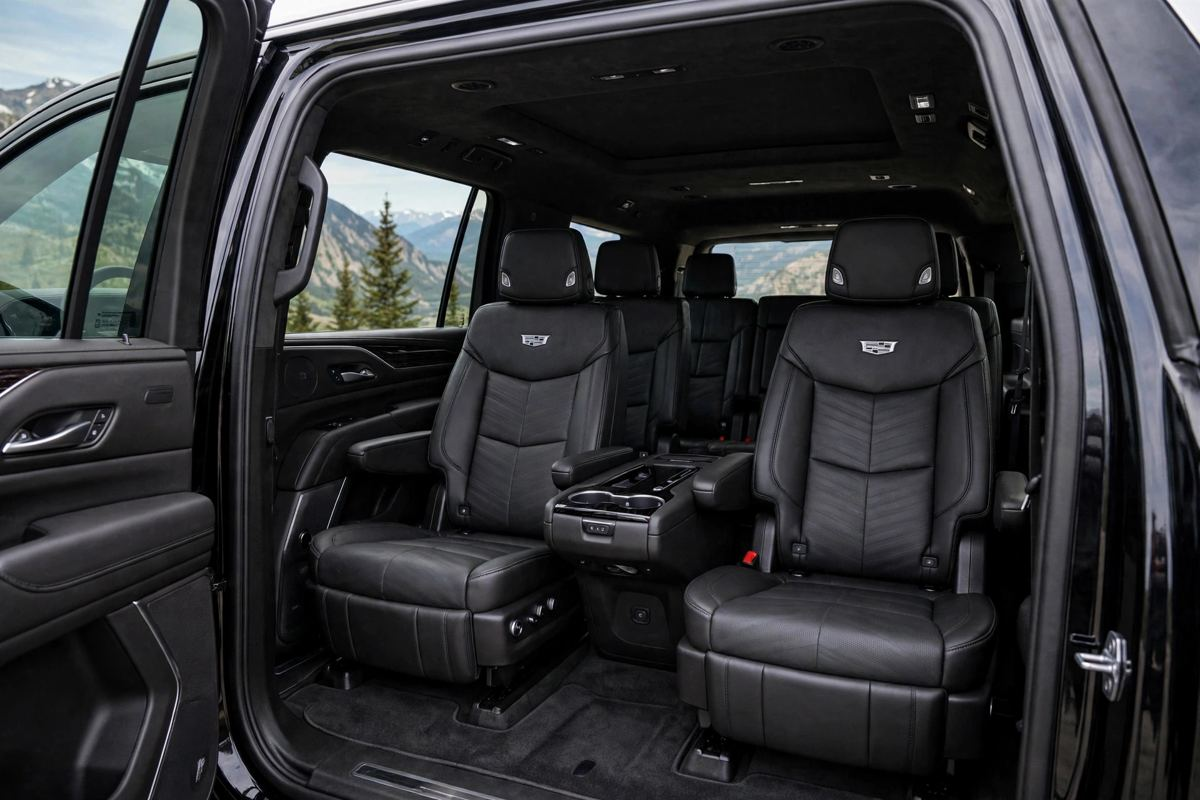
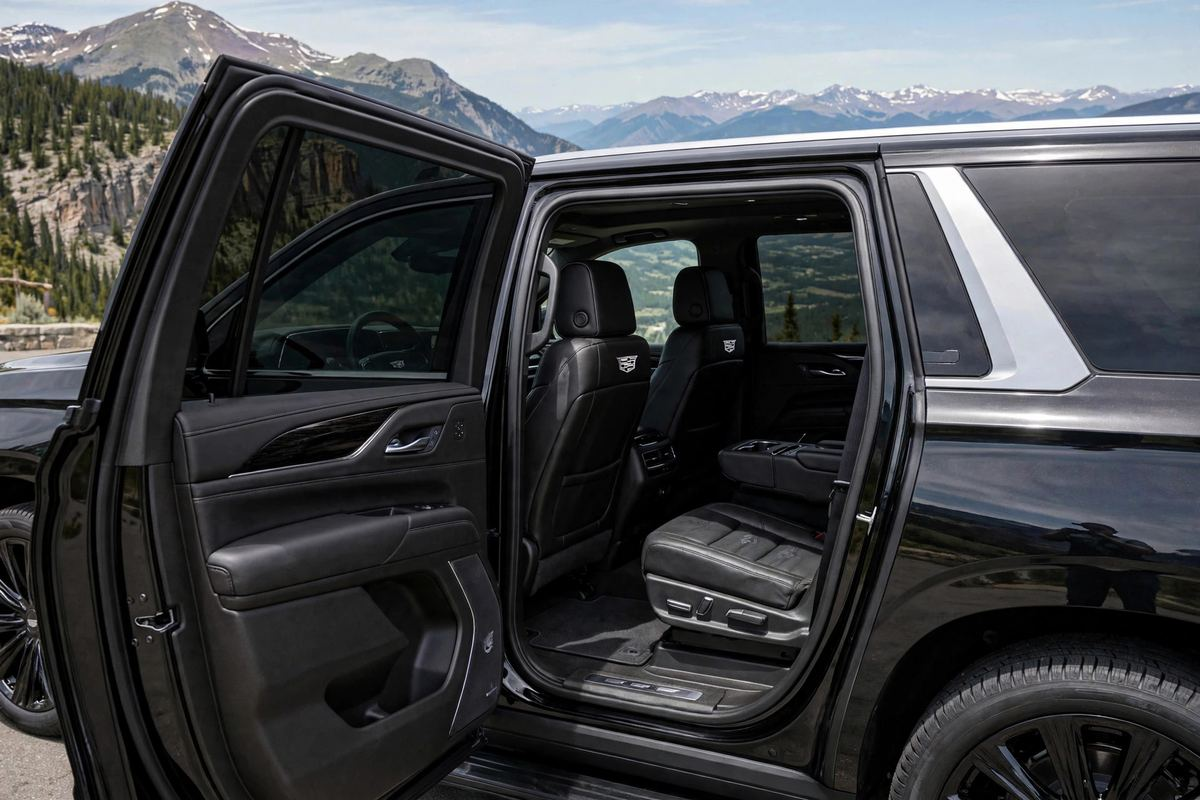
Sync with final preview page (ridewave-web 3fe7ff77): flight-number field, hero eyebrow/headline removed, quote map 300px tall with explicit route framing, slideshow slides 4/5 regenerated (conventional rear door, vertical-LED headlight detail)

diff --git a/index.html b/index.html
@@ -282,9 +282,10 @@ html.veh-pending #qVehImg{display:none}
 html.look-app .qmap-note{color:#B9B9B9;background:linear-gradient(100deg,#161616 40%,#202020 50%,#161616 60%);background-size:200% 100%}
 html.look-app .qmap-note.qmap-failed{background:#161616}
 @media (prefers-reduced-motion: reduce){.qveh-skel,.qmap-note{animation:none}}
-.qmap{position:relative;height:100px;border-radius:12px;overflow:hidden;background:#E7EDE3;margin:0}
+.qmap{position:relative;height:300px;border-radius:12px;overflow:hidden;background:#E7EDE3;margin:0}
 .qfare{display:flex;align-items:baseline;gap:8px;flex-wrap:wrap;background:var(--surface2);border-radius:12px;padding:12px 16px;margin:0 0 8px}
 .qfare[hidden]{display:none}
+#qzFlightField[hidden]{display:none}
 .qfare .q-lbl{font-size:15px;font-weight:600;color:var(--ink)}
 .qfare .q-amt{font-size:24px;font-weight:700;color:var(--amber-strong);line-height:1}
 .qfare .q-det{font-size:14px;font-weight:600;color:var(--muted)}
@@ -421,8 +422,6 @@ body.xyz-edit-on .ticker{margin-top:64px}
 <section style="padding:4px 0 48px">
   <div class="wrap qwrap">
     <div class="qcard">
-      <div class="kicker">Quote request</div>
-      <h1>Book your ride with Boulder Black Line</h1>
       <div class="qid">
         <span class="qid-co">Boulder Black Line</span>
         <span class="qid-owner">Owner: <span data-bbl-owner>Boulder Black Line</span></span>
@@ -437,6 +436,7 @@ body.xyz-edit-on .ticker{margin-top:64px}
             <div class="field"><label class="flabel" for="qzTime">Time</label><input id="qzTime" type="time"><div class="err">Please pick the time of your ride.</div></div>
           </div>
           <div class="field"><label class="flabel" for="qzPickup">Pickup location</label><input id="qzPickup" type="text" placeholder="Start typing an address" autocomplete="off"><div class="err">Please enter your pickup location.</div></div>
+          <div class="field" id="qzFlightField" hidden><label class="flabel" for="qzFlight">Flight number (optional)</label><input id="qzFlight" type="text" autocomplete="off" placeholder="e.g. UA 1234"><div class="err"></div></div>
           <div class="field"><label class="flabel" for="qzDropoff">Drop-off location</label><input id="qzDropoff" type="text" placeholder="Start typing an address" autocomplete="off"><div class="err">Please enter your drop-off location.</div></div>
           <div class="qfare" id="qFare" hidden></div>
           <div class="qduo">
@@ -456,7 +456,7 @@ body.xyz-edit-on .ticker{margin-top:64px}
           <img src="bbl-suv-2.jpg" alt="2026 Cadillac Escalade ESV, rear three-quarter view" loading="lazy">
           <img src="bbl-suv-3.jpg" alt="2026 Cadillac Escalade ESV, front cabin with black leather interior" loading="lazy">
           <img src="bbl-suv-4.jpg" alt="2026 Cadillac Escalade ESV, rear passenger seats with black leather interior" loading="lazy">
-          <img src="bbl-suv-5.jpg" alt="2026 Cadillac Escalade ESV, side profile showing the extended-length body" loading="lazy">
+          <img src="bbl-suv-5.jpg" alt="2026 Cadillac Escalade ESV, front corner detail with vertical LED headlight" loading="lazy">
           </div>
           <button class="qshow-btn qshow-prev" id="qShowPrev" type="button" aria-label="Previous photo">&#8249;</button>
           <button class="qshow-btn qshow-next" id="qShowNext" type="button" aria-label="Next photo">&#8250;</button>
@@ -660,16 +660,44 @@ function qzWidget(){
 function qzTrimMap(){
   try {
     if(!mapsReady || !qzMap || !qzPlaces.pickup || !qzPlaces.dropoff) return;
-    var b = new google.maps.LatLngBounds();
-    b.extend(mkLatLng(qzPlaces.pickup.lat, qzPlaces.pickup.lng)); b.extend(mkLatLng(qzPlaces.dropoff.lat, qzPlaces.dropoff.lng));
-    qzMap.fitBounds(b, 56);
     var svc = new google.maps.DirectionsService();
     svc.route({ origin: mkLatLng(qzPlaces.pickup.lat, qzPlaces.pickup.lng), destination: mkLatLng(qzPlaces.dropoff.lat, qzPlaces.dropoff.lng), travelMode: google.maps.TravelMode.DRIVING }, function(res, st){
-      if(st === "OK" && res){ if(qzLine) qzLine.setMap(null); qzLine = new google.maps.DirectionsRenderer({ map: qzMap, suppressMarkers: true, polylineOptions: { strokeColor: "#c2922e", strokeWeight: 5 } }); qzLine.setDirections(res); }
+      if(st === "OK" && res && res.routes && res.routes[0]){
+        if(qzLine) qzLine.setMap(null);
+        /* preserveViewport: the framing is done explicitly below, once, from
+           the route's own bounds with a small padding that fits the map box.
+           The old code called fitBounds(bounds, 56) up front: 56px of padding
+           on the 100px-tall map left a negative viewport height, collapsed
+           the zoom to near-world level, and shrank the route line to a few
+           pixels beside the Denver pin. */
+        qzLine = new google.maps.DirectionsRenderer({ map: qzMap, suppressMarkers: true, preserveViewport: true, polylineOptions: { strokeColor: "#c2922e", strokeWeight: 5 } });
+        qzLine.setDirections(res);
+        var rb = res.routes[0].bounds;
+        if(rb){ qzMap.fitBounds(rb, 32); }
+        else { var b = new google.maps.LatLngBounds(); b.extend(mkLatLng(qzPlaces.pickup.lat, qzPlaces.pickup.lng)); b.extend(mkLatLng(qzPlaces.dropoff.lat, qzPlaces.dropoff.lng)); qzMap.fitBounds(b, 32); }
+      }
     });
   } catch(e){}
 }
 function qzRoute(){ qzWidget(); qzTrimMap(); }
+/* Flight number field: visible only while the SELECTED pickup place is
+   an airport. Detection rides on the flags normPlace already sets for
+   ANY airport, not just DEN: isAnyAirport when the place's Google types
+   include "airport" or its name/address says airport, and isAirport
+   when a DIA pick snapped to a terminal point. Based on the selected
+   place only, never on raw typed text. Hiding clears the value, so a
+   stale flight number can never ride along on a later request. The
+   field is optional: an airport pickup submits fine without it. */
+function qzPickupIsAirport(){
+  var p = qzPlaces.pickup;
+  return !!(p && (p.isAnyAirport || p.isAirport));
+}
+function qzFlightSync(){
+  var wrap = qz$("qzFlightField"); if(!wrap) return;
+  var show = qzPickupIsAirport();
+  wrap.hidden = !show;
+  if(!show){ var inp = qz$("qzFlight"); if(inp) inp.value = ""; }
+}
 function qzNullFare(){ qzFare = null; qzRouteMeta = null; qz$("qFare").hidden = true; }
 function qzAutoc(id, key){
   var inp = qz$(id); if(!inp) return;
@@ -679,9 +707,10 @@ function qzAutoc(id, key){
     if(p){ inp.value = p.formatted_address || p.name || inp.value; }
     clearField(inp);
     qzPlaces[key] = normPlace(inp, p);
+    qzFlightSync();
     qzRoute();
   });
-  inp.addEventListener("input", function(){ qzPlaces[key] = null; qzNullFare(); });
+  inp.addEventListener("input", function(){ qzPlaces[key] = null; qzNullFare(); qzFlightSync(); });
 }
 window.__qzInitMaps = function(){
   try {
@@ -701,6 +730,7 @@ setTimeout(function(){
 }, 10000);
 (function(){
   qzSetMin();
+  qzFlightSync();
   var form = qz$("quoteForm"); if(!form) return;
   form.addEventListener("submit", function(ev){
     ev.preventDefault();
@@ -718,6 +748,8 @@ setTimeout(function(){
     need(dropoff, !!qzPlaces.dropoff, "Please pick your drop-off location from the suggestions.");
     need(phone, (phone.value || "").replace(/\D/g, "").length >= 10, "Please enter a valid phone number.");
     if(bad){ bad.focus(); return; }
+    var flightNumber = "";
+    if(qzPickupIsAirport()){ var flEl = qz$("qzFlight"); if(flEl) flightNumber = (flEl.value || "").trim().toUpperCase(); }
     var code = "QR-" + (1000 + Math.floor(Math.random() * 9000));
     var rec = {
       id: "q" + Date.now().toString(36),
@@ -733,6 +765,7 @@ setTimeout(function(){
       fare: qzFare, miles: qzRouteMeta ? qzRouteMeta.miles : null, mins: qzRouteMeta ? qzRouteMeta.mins : null,
       createdAt: new Date().toISOString()
     };
+    if(flightNumber) rec.flightNumber = flightNumber;
     try {
       var all = []; try { all = JSON.parse(localStorage.getItem(QZ_LS) || "[]"); } catch(e){ all = []; }
       if(!Array.isArray(all)) all = [];
@@ -754,6 +787,7 @@ setTimeout(function(){
         passengers: rec.passengers, notes: rec.notes, status: "requested",
         fareDetail: fareDetail, createdAt: rec.createdAt, quote: true
       });
+      if(flightNumber) books[books.length - 1].flightNumber = flightNumber;
       localStorage.setItem(QZ_LS_BOOKS, JSON.stringify(books));
       if (window.BBL_BACKEND) { try { BBL_BACKEND.recordBooking(books[books.length-1]); } catch(e){} }
     } catch(e){}
@@ -763,6 +797,7 @@ setTimeout(function(){
       ["Drop-off", rec.dropoff],
       ["Passengers", String(rec.passengers)]
     ];
+    if(rec.flightNumber) rows.splice(2, 0, ["Flight", rec.flightNumber]);
     if(rec.fare != null) rows.push(["Your fare", "$" + fmtMoney(rec.fare) + " (" + rec.miles.toFixed(1) + " mi)"]);
     if(rec.notes) rows.push(["Notes", rec.notes]);
     qz$("qSummary").innerHTML = rows.map(function(r){ return "<div class='srow'><span>" + r[0] + "</span><b>" + r[1] + "</b></div>"; }).join("");
@@ -777,6 +812,7 @@ setTimeout(function(){
     form.reset(); form.style.display = "";
     qzPlaces = { pickup: null, dropoff: null };
     qzNullFare(); qzSetMin();
+    qzFlightSync();
     qz$("qMap").scrollIntoView({ behavior: "smooth", block: "center" });
   });
 })();
